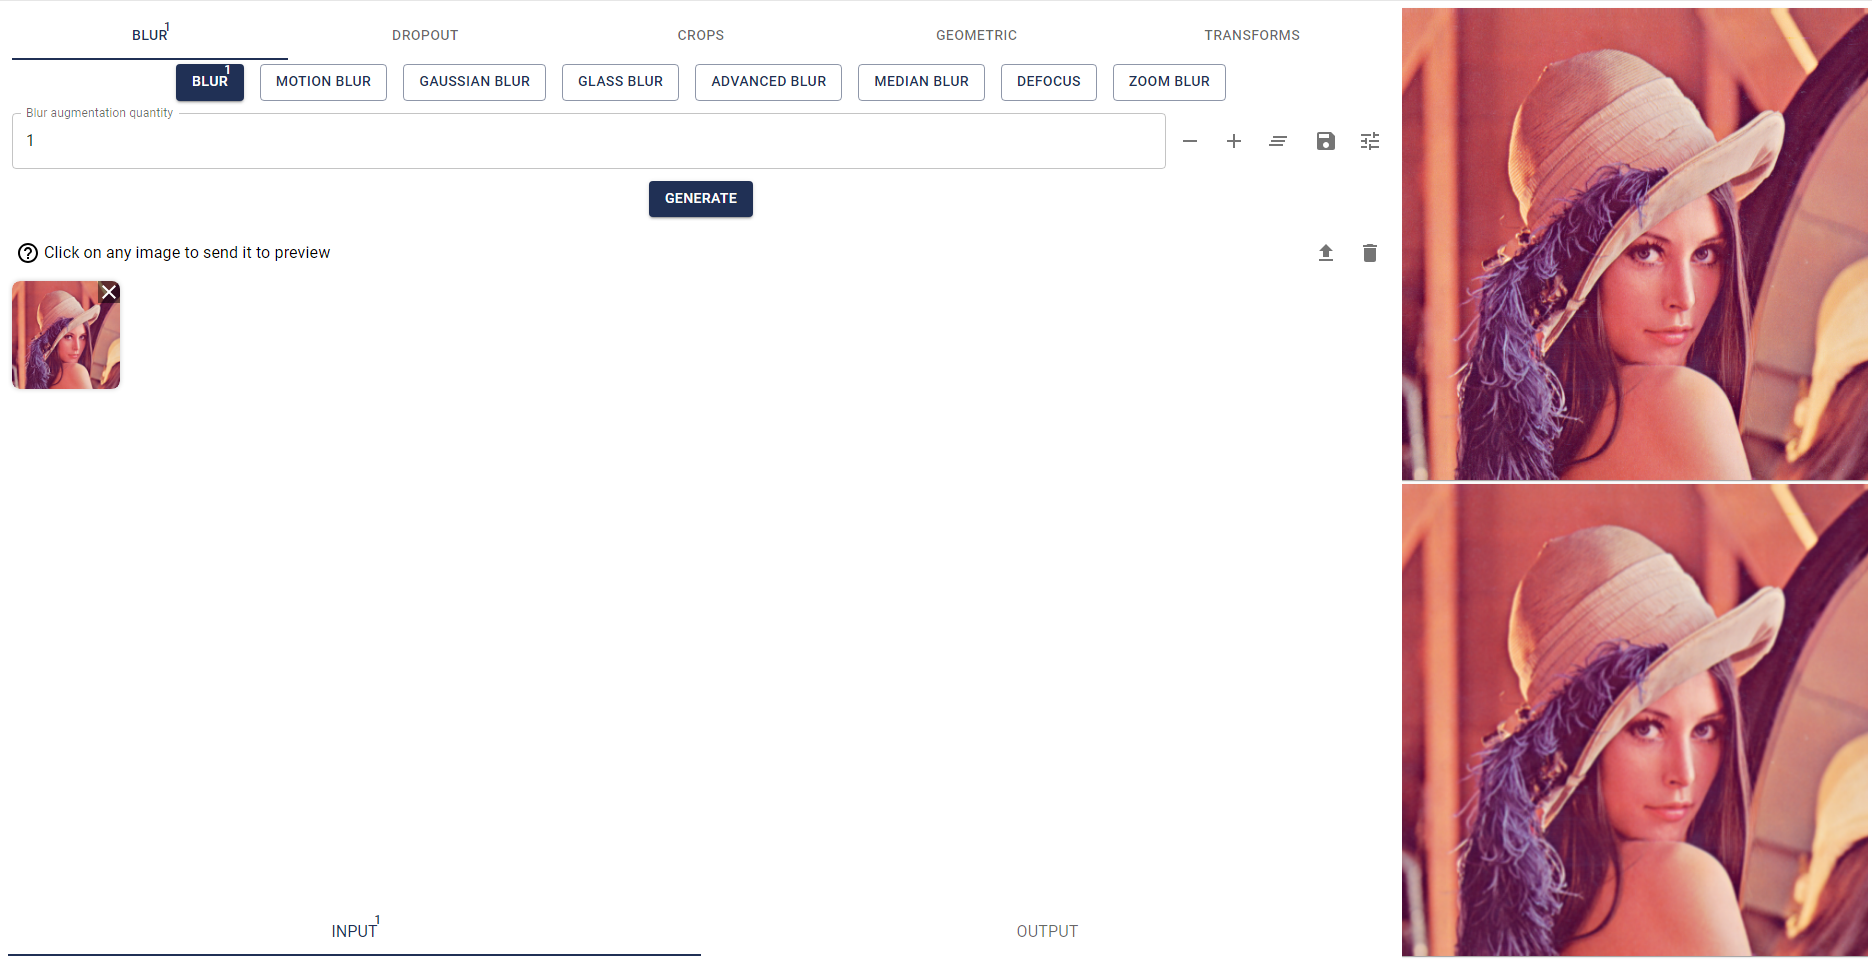
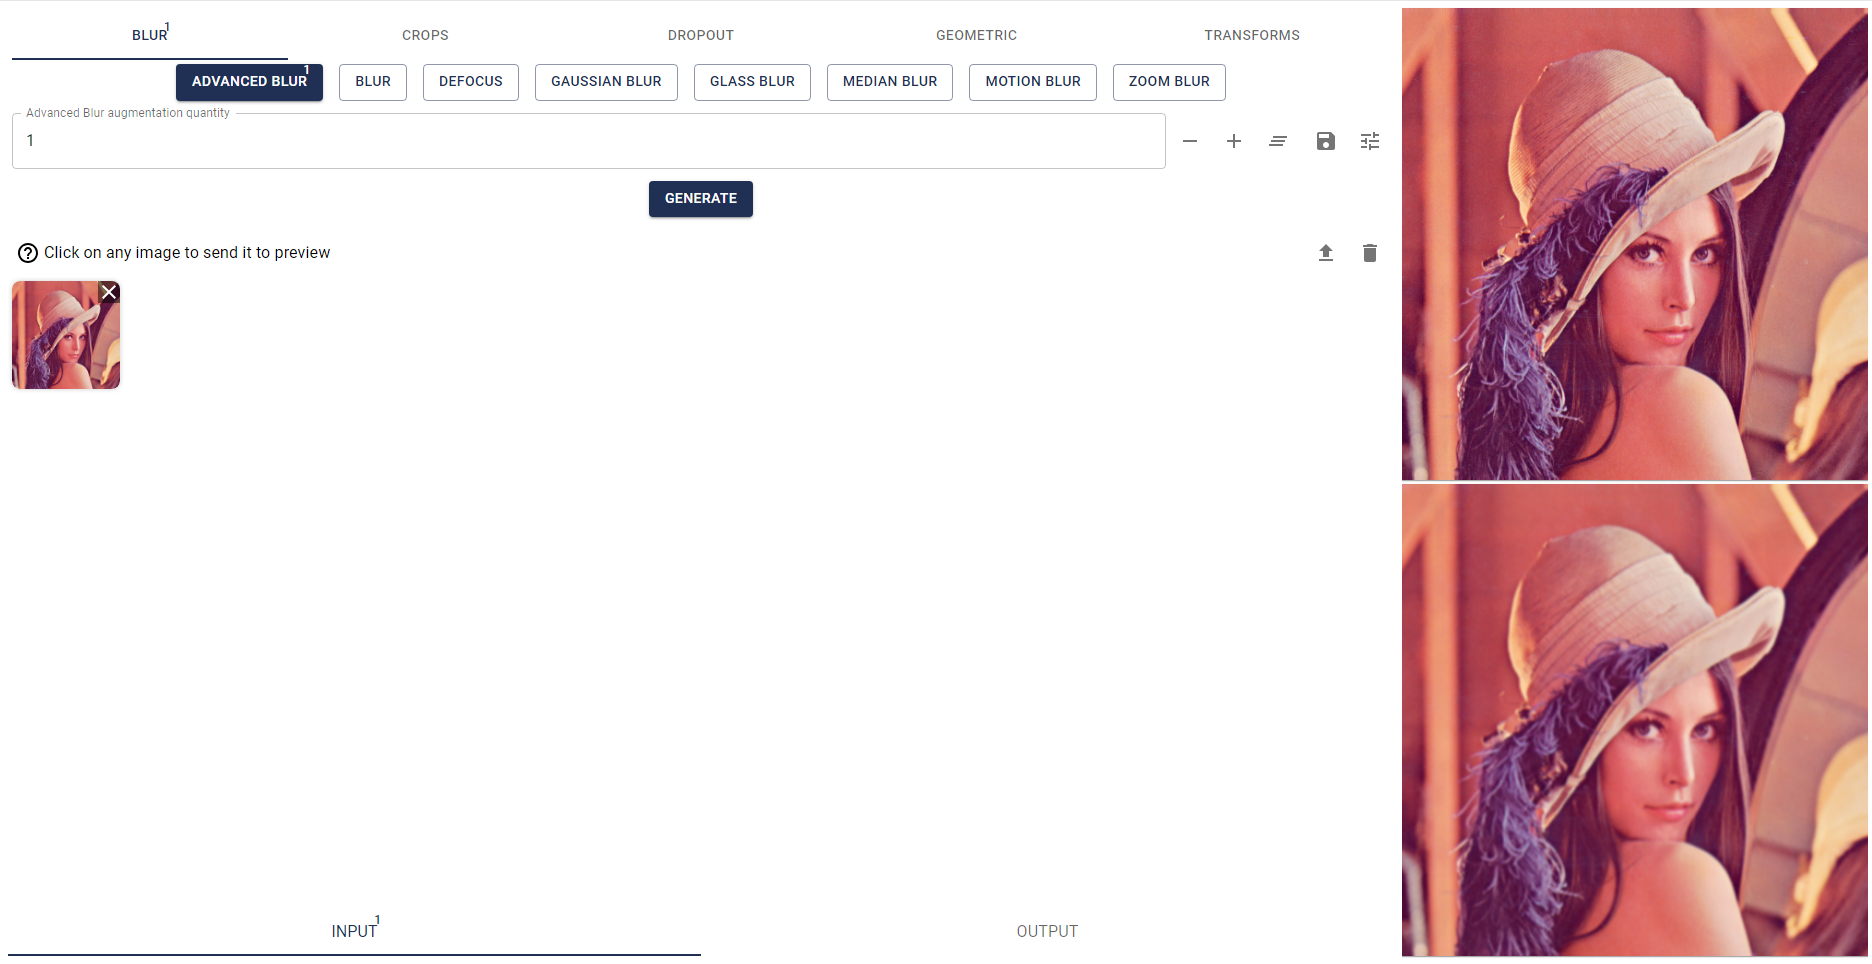
Provide refactoring

Changed region(s): [[0.0, 0.0311, 0.5887, 0.1245]]

diff --git a/client/src/application/ApplicationComponent.tsx b/client/src/application/ApplicationComponent.tsx
@@ -18,19 +18,18 @@ import QuantityComponent from "../quantity/QuantityComponent";
 import ContentTab from "./ContentTab";
 
 interface Props {
-    title: string;
     augmentationService: AugmentationService,
     presetService: PresetService,
 }
 
 
-const ApplicationComponent: React.FC<Props> = ({title, augmentationService, presetService}) => {
+const ApplicationComponent: React.FC<Props> = ({augmentationService, presetService}) => {
     const [state, dispatch] = useReducer(ApplicationReducer, new ApplicationState());
 
     const tabs = useMemo(() => [ContentTab.Input, ContentTab.Output], []);
 
     const categories = useMemo(() => {
-        return [...new Set(state.augmentations.map(augmentation => augmentation.category))];
+        return [...new Set(state.augmentations.map(augmentation => augmentation.category).sort())];
     }, [state.augmentations]);
 
     const selectedCategoryAugmentations = useMemo(() => {
@@ -199,7 +198,6 @@ const ApplicationComponent: React.FC<Props> = ({title, augmentationService, pres
     }, []);
 
     useEffect(() => {
-        document.title = title;
         augmentationService.getAugmentations().then(augmentations => {
             if (augmentations.isSuccess) {
                 if (augmentations.value.length > 0) {
@@ -219,7 +217,7 @@ const ApplicationComponent: React.FC<Props> = ({title, augmentationService, pres
                 console.error(augmentations.error);
             }
         });
-    }, [augmentationService, presetService, title]);
+    }, [augmentationService, presetService]);
 
     return state.augmentations.length > 0 ? (
         <Box

diff --git a/client/src/index.js b/client/src/index.js
@@ -27,7 +27,6 @@ root.render(
     <React.StrictMode>
         <ThemeProvider theme={theme}>
             <ApplicationComponent
-                title={document.title}
                 augmentationService={augmentationService}
                 presetService={presetService}
             />

diff --git a/README.md b/README.md
@@ -1,7 +1,9 @@
-<div align="center" style="background: #7bb9dc; padding: 8px">
-<h1 style="color: #203055">Augmenta</h1>
+<a href="https://www.buymeacoffee.com/numq"><img src="https://img.buymeacoffee.com/button-api/?text=Buy me a one way ticket&emoji=✈&slug=numq&button_colour=5F7FFF&font_colour=ffffff&font_family=Inter&outline_colour=000000&coffee_colour=FFDD00" /></a>
+
+<div align="center">
+<h1>Augmenta</h1>
 <img src="media/logo.png" alt="logo" height="128px"/>
-<h2 style="color: #203055">
+<h2>
 Local web application providing API and UI for image augmentation, based on
 the <a href="https://albumentations.ai/">albumentations</a> library
 </h2>
